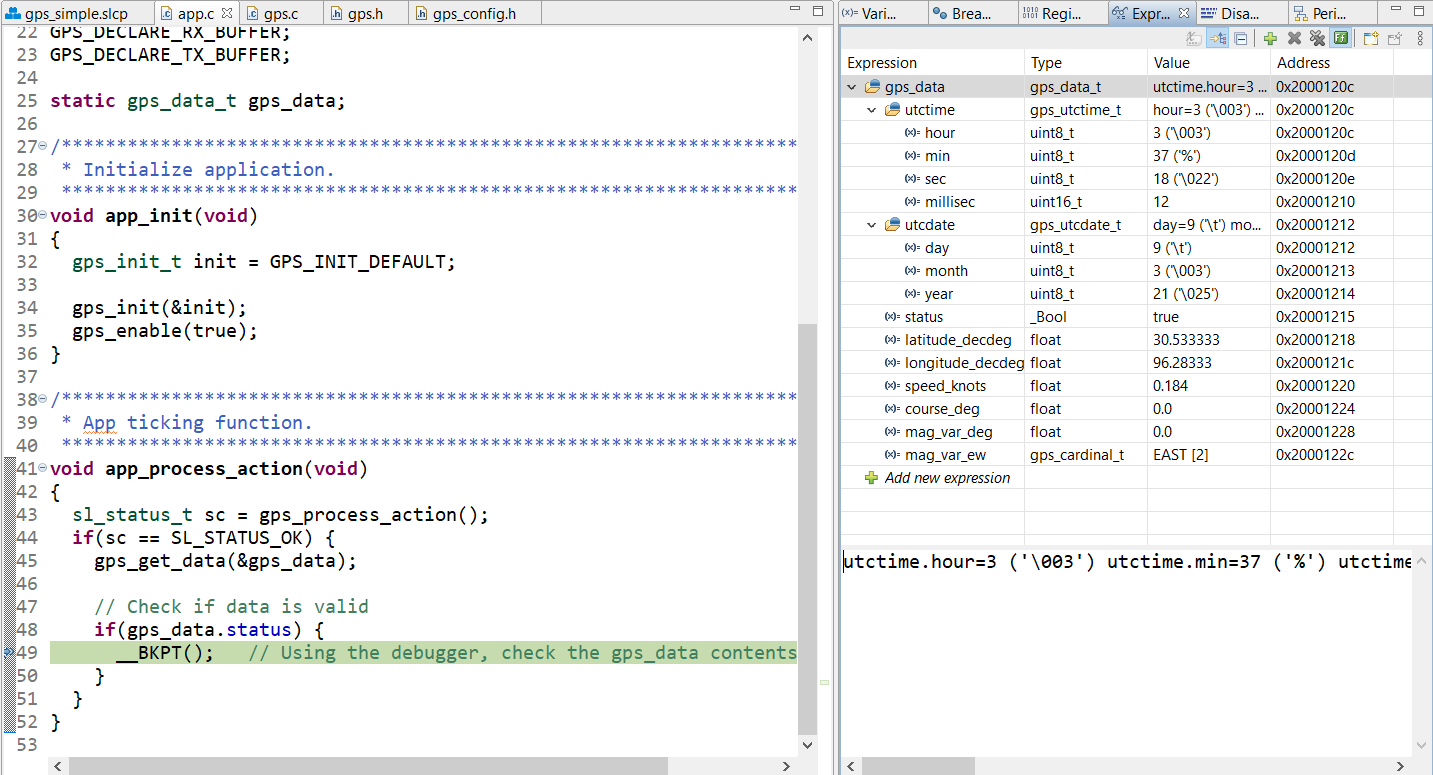
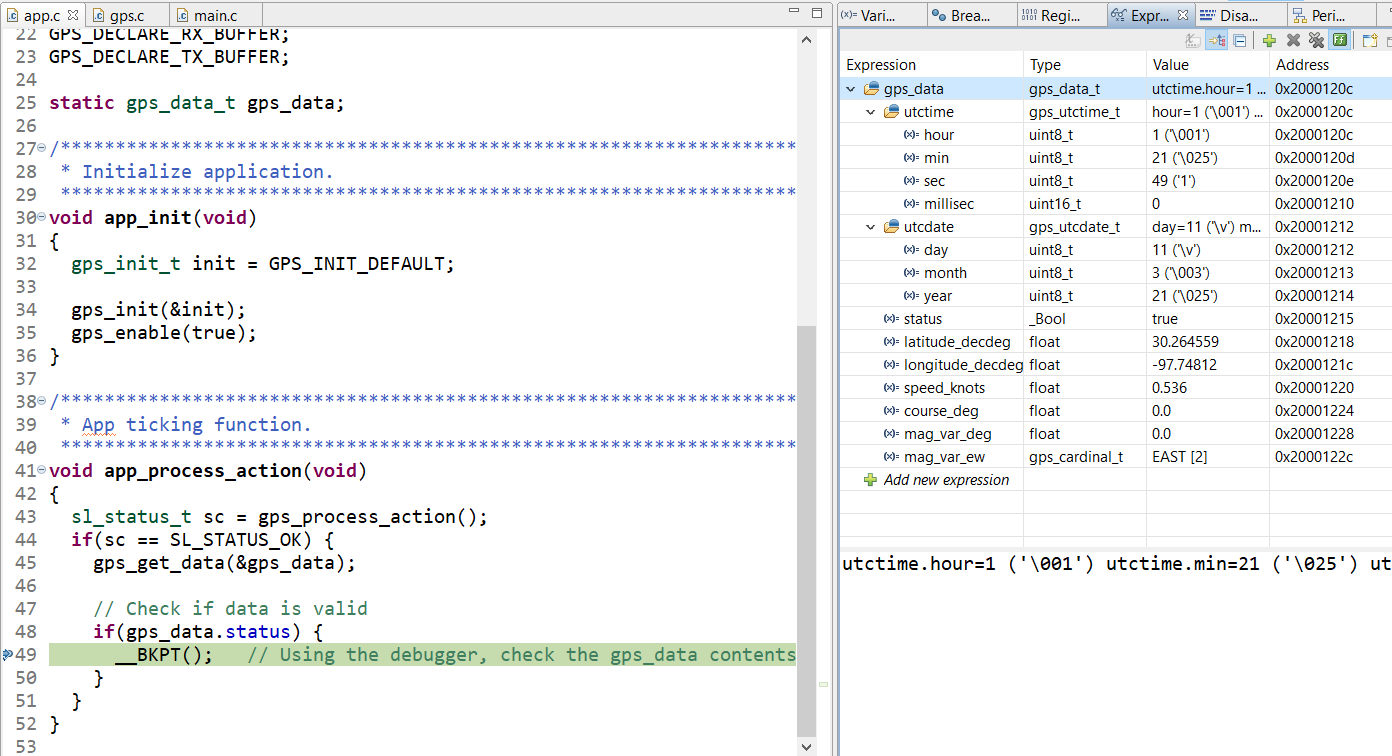
gps - fixes precision bug (#18)

Changed region(s): [[0.0, 0.0, 1.0, 1.0], [0.9885, 0.9431, 1.0, 0.9735]]

diff --git a/gps_lea6s/src/gps.c b/gps_lea6s/src/gps.c
@@ -149,14 +149,14 @@ static void init_gpio(void)
  ******************************************************************************/
 static float convert_degmin_to_decdeg(float degmin, gps_cardinal_t cardinal)
 {
-  int32_t deg;
-  float min;
+  int32_t deg = 0;
+  float min = 0;
   float sign = 1;
 
   deg = degmin / 100;   // dddmm.mmmm (extract and mask deg = ddd)
-  min = (int32_t)degmin % (100);
+  min = degmin - (deg * 100);
 
-  if(cardinal == 'S' || cardinal == 'W') {
+  if(cardinal == SOUTH || cardinal == WEST) {
       sign = -1;
   }
 
@@ -229,6 +229,8 @@ static sl_status_t nmea_format(char *nmea_str, gps_data_t *gps)
   if(nmea_str == NULL || gps == NULL) {
     return SL_STATUS_INVALID_PARAMETER;
   }
+
+  sl_status_t sc = SL_STATUS_IS_WAITING;
 
   // Helper variables that will be processed to convert to appropriate types.
   int32_t tmp_int = 0;
@@ -385,8 +387,11 @@ static sl_status_t nmea_format(char *nmea_str, gps_data_t *gps)
     } else {
       gps->mag_var_ew = EAST; // default
     }
+
+    sc = SL_STATUS_OK;
   }
-  return SL_STATUS_OK;
+
+  return sc;
 }
 
 
@@ -480,6 +485,7 @@ sl_status_t gps_process_action(void)
 {
   if(!handle.rx_processed & handle.rx_is_complete) {
     handle.rx_processed = true;
+    handle.rx_is_complete = false;
     return nmea_format((char *)handle.rx_buffer_ptr, &handle.latest_data);
   }
 
